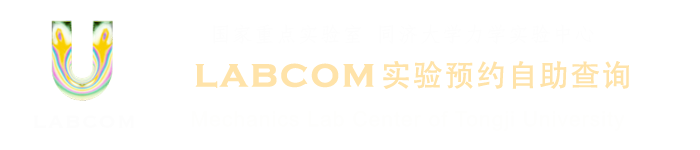
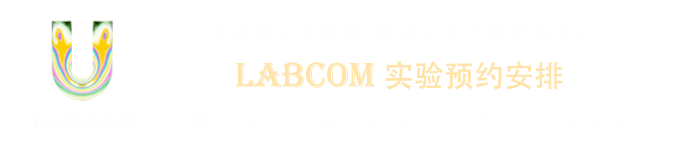
p1 surface
更改界面效果

Changed region(s): [[0.27, 0.4, 0.9, 0.6133]]

diff --git a/QuerySystem/MainWindow.xaml b/QuerySystem/MainWindow.xaml
@@ -32,8 +32,8 @@
             </Grid>
         </Grid>
 
-        <Image Grid.Row="1" Grid.Column="1" Source="pack://siteoforigin:,,,/labimage.png" VerticalAlignment="Center" Margin="0,-30,0,0"/>
-        <Grid Name="InputSearchIDView" Grid.Row="1" Grid.Column="1">
+        <Image Grid.Row="1" Grid.Column="1" Source="pack://siteoforigin:,,,/labimage.png" VerticalAlignment="Center" Margin="0,-100"/>
+        <Grid Name="InputSearchIDView" Grid.Row="1" Grid.Column="1" d:IsHidden="True">
             <Grid.RowDefinitions>
                 <RowDefinition Height="2*" />
                 <RowDefinition Height="6*" />

diff --git a/DisplayBoard/MainWindow.xaml.cs b/DisplayBoard/MainWindow.xaml.cs
@@ -33,9 +33,9 @@ namespace DisplayBoard
         int Logintime = 0;
         string temp = "";
 
-        String[] media_name = { "media1.mp4", "media2.mp4"};
-        private int total_media = 2;
-        private int current_media = 2;
+        String[] media_name = { "media1.mp4", "media2.mp4", "media3.mp4" };
+        private int total_media = 3;
+        private int current_media = 3;
 
         DoubleAnimation dax = new DoubleAnimation();
         DoubleAnimation day = new DoubleAnimation();
@@ -180,6 +180,7 @@ namespace DisplayBoard
                 Viewbox vb = g.Children[i] as Viewbox;
                 TextBlock tb = vb.Child as TextBlock;
                 tb.Text = m.mm[i];
+    
             }
         }
         //private class MyMessage 
@@ -238,23 +239,27 @@ namespace DisplayBoard
                 ongoing = temp;
 
             }
-            temp = DataUtil.getNextUpcomingMyMsg();
+            MyMessage temp1;
+
+            temp1 = DataUtil.getNextUpcomingMyMsg();
            
-            if (!temp.isEqual(upcoming))
+            if (!temp1.isEqual(upcoming))
             {
-                change_content(this.upcomingAnimaView, temp);
+                change_content(this.upcomingAnimaView, temp1);
                 this.tt3_copy.BeginAnimation(TranslateTransform.XProperty, dax);
                 this.tt3_copy.BeginAnimation(TranslateTransform.YProperty, day);
                 
-                upcoming = temp;
+                upcoming = temp1;
             }
-            temp = DataUtil.getNextTomorrowMyMsg();
-            if (!temp.isEqual(tomorrow))
+            MyMessage temp2;
+
+            temp2 = DataUtil.getNextTomorrowMyMsg();
+            if (!temp2.isEqual(tomorrow))
             {
-                change_content(this.tomorrowAnimaView, temp);
+                change_content(this.tomorrowAnimaView, temp2);
                 this.tt4_copy.BeginAnimation(TranslateTransform.XProperty, dax);
                 this.tt4_copy.BeginAnimation(TranslateTransform.YProperty, day);
-                tomorrow = temp;
+                tomorrow = temp2;
             }
         }
 

diff --git a/DisplayBoard/DataUtil.cs b/DisplayBoard/DataUtil.cs
@@ -133,9 +133,9 @@ namespace DisplayBoard
                     myMsg.m_people = myMsg.m_people + resvt.labTeacherList[i].name;
                     break;
                 }
-                if (resvt.labTeacherList.Count <= 4)
+                if (resvt.labTeacherList.Count < 3)
                     myMsg.m_people = myMsg.m_people + resvt.labTeacherList[i].name + '/';
-                if (resvt.labTeacherList.Count > 4)
+                if (resvt.labTeacherList.Count >= 3)
                     if (i == resvt.labTeacherList.Count / 2 - 1)
                         myMsg.m_people = myMsg.m_people + resvt.labTeacherList[i].name;
                     else
@@ -265,7 +265,7 @@ namespace DisplayBoard
         private static MyMessage getDefaultMyMsg()
         {
             MyMessage mm = new MyMessage();
-            mm.m_lab = "没有下一个";
+            mm.m_lab = "暂无";
             mm.m_statu = "";
             mm.m_content = "";
             mm.m_class = "";

diff --git a/DisplayBoard/Model/MyMessage.cs b/DisplayBoard/Model/MyMessage.cs
@@ -32,7 +32,7 @@ namespace DisplayBoard.Model
             this.getmm();
             for (int i = 0; i < 5; i++)
             {
-                if (!mm[0].Equals(a.mm[0]))
+                if (!mm[i].Equals(a.mm[i]))
                     return false;
             }
             return true;
